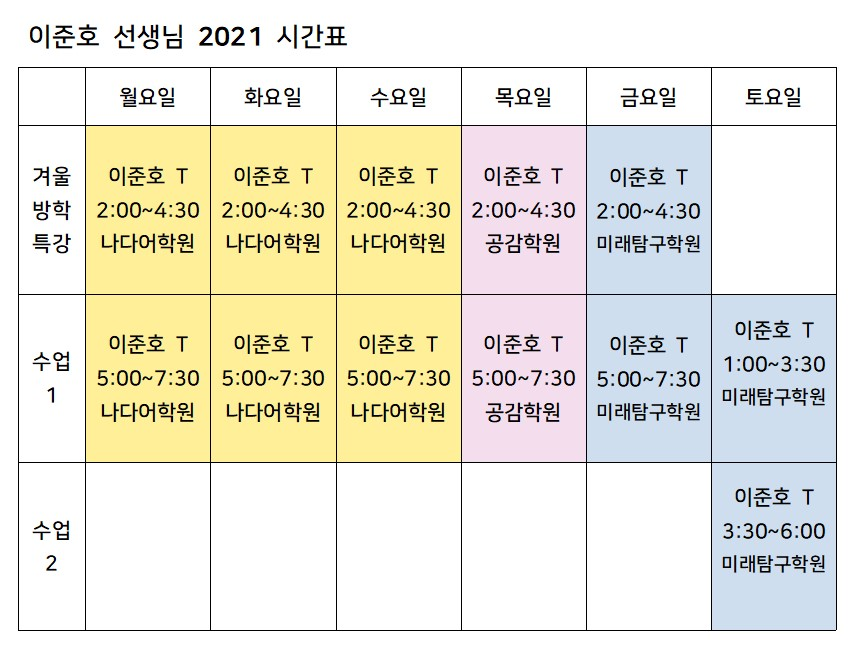
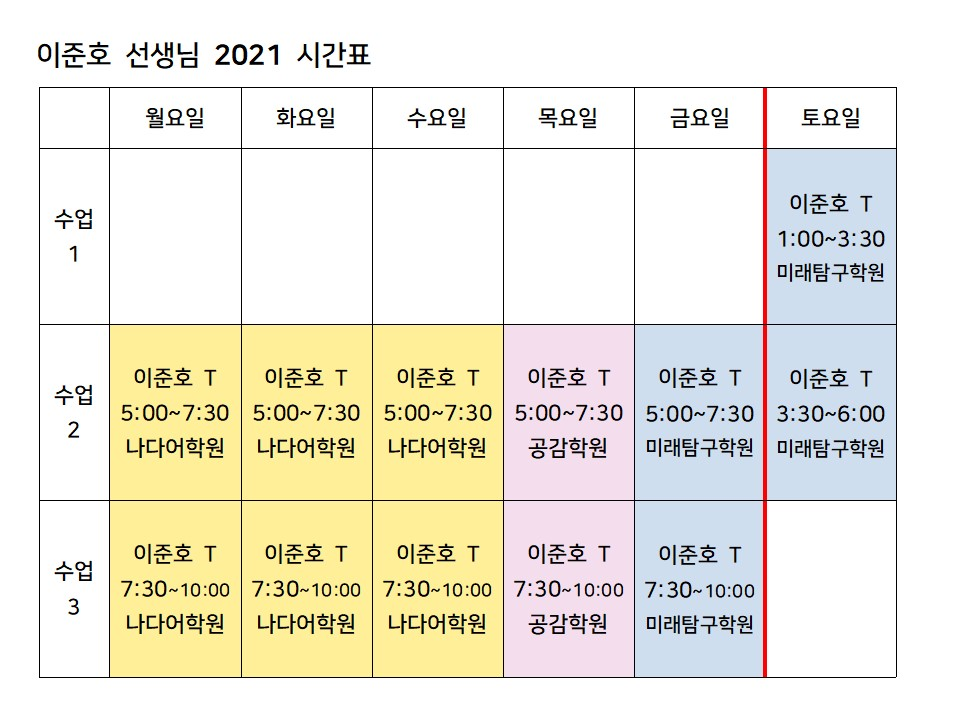
02-25 강의소개 업데이트

diff --git a/intro.html b/intro.html
@@ -43,51 +43,61 @@
 				</div>
 			</section>
 
+			<!-- Main -->
+			<section id="main" class="wrapper">
+				<div class="inner">
+					<div class="content">
+						<header>
+							 <h1><i class="fa fa-tasks" aria-hidden="true"></i>  <b>A.I 슈퍼클리닉</b></h1>
+							 <h3>(Artificial Intelligence)</h3> <br><br>
+						</header>
+						<p><b>인공지능</b> 시스템 마타(mata)를 통해 학생 개인의 취약 개념을 체계적으로 보완하며 스스로 실력을 쌓아가도록 유도하는 <br> 완벽한 개별 맞춤형 실력 향상 수업입니다. </p>
+						<h3><b>수업 소개</b></h3>
+						<p>강의 없이 개별 <b>스케줄링*</b> 작업 후 1회 수업 당 총 4세트의 치료 문제를 풀게 되며, 개인별로 첨삭 및 약점 치료를 진행하는 형태.</p>
+							<ul>
+								<li>수업 횟수: 기본 주 1회 수업/ 주 2회는 선택</li>
+								<li>1회당 수업 시간: 2시간 30분</li>
+								<li>반 구성: 고3 중심 반, 고1,2 중심반</li>
+							</ul>
+						<p><b>스케줄링* 이란</b> <br> 원하는 기간과 목표를 설정하고 이를 달성하기 위해 학생의 실력에 맞춰 인공지능 시스템을 세팅하는 것을 의미합니다. <br>스케줄링은 상담 후 특정 목적에 따라 맞춤형 세팅이 가능하고, 주기적으로 업데이트가 되며 그에 대한 모든 내용은 강사와 학부모가 공유합니다.</p>
+						
+						<hr />
+						<header>
+							<h2><i class="fa fa-book" aria-hidden="true"></i>  <b><자세한 수업 진행 예시></b></h2>
+					   </header>
+					   	<ol>
+							<li><mark>진단 모의고사</mark>를 학생이 풀어봅니다</li>
+							<li>진단모의고사에서 학생이 <mark>맞은 문제와 틀린 문제</mark>를 <b>인공지능</b>이 분석합니다. <br>
+								객관식 문항의 경우 어떤 보기를 골랏는지, 서술형 문항의 경우 어떤 답을 썼는지를 분석하여 학생이 가지고 있는 오개념을 분석합니다.</li>
+							<li>진단모의고사의 결과 데이터가 누적되면 학생이 <mark>틀린 문제들에 공통적으로 포함되어 있었던 개념들을</mark> 인공지능이 분석합니다. 따라서 <mark>데이터가 누적될수록 학생에 대한 분석결과는 더욱 정확하고 정교</mark>해집니다.</li>
+							<li>인공지능이 분석결과를 바탕으로 학생이 가진 취약개념을 바로 잡을 수 있는 문제들, 이른바 치료문제를 선별합니다.</li>
+							<li>인공지능이 선별한 학생 맞춤형 <mark>치료문제를 통해 학생이 가진 오개념들을 바로 잡게</mark> 됩니다.</li>
+						</ol>
+						<hr />
+						<header>
+							<h2><i class="fa fa-info-circle" aria-hidden="true"></i> 학생에 맞게 운영되는 최상의 시스템 <b> 슈퍼클리닉</b></h2>
+					   </header>
+					   <p>1. 적절한 <b>시간 배분</b> 연습</p>
+					   <p>2. 어떤 문제도 학생에게 답해줄 수 있고, 학생과 토론할 준비가 된 <b>선생님</b></p>
+					   <p>3. <b>실시간으로 치료문제를 뽑아서</b> 그날 자신의 약한 부분을 다시 연습할 수 있게 해주는 스케줄링</p>
+					   <p>4. 진행되는 모든 과정을 학부모님과 공유하기 위한 <b>분석보고서</b> 작성 및 송부</p>
 
-			<!-- Highlights -->
-				<section class="wrapper">
-					<div class="inner">
-						<div class="highlights">
-							<section>
-								<div>
-										<img src = "images/SuperClinicLogo.png" width="100%">
-								</div>
-							</section>
-							<section> <!--메인 배경색-->
-								<div class="content">
-									<header>
-										<h2><strong>대치동에서 진행되는<br> 수학 맞춤형 클리닉  </strong></h2>
-									</header>
-									<p>수강 신청 안내 </p>
-									<ol>
-										<li> 카톡 플러스 친구 '슈퍼클리닉' 채널 추가한다.  </li>
-										<li> 게시글에서 수강시간표를 확인한 뒤, 수강하고자 하는 학원과 시간과 반을 선택한다.</li>
-										<li> 채팅하기(1:1)를 눌러 다음의 정보를 채팅창에 입력하면 확인 후 상담 전화를 드립니다! </li>
-									</ol>
-									<p>* 이외 궁금하신 사항은 플러스친구(1:1채팅)에 직접 문의하시면 확인 즉시 순차적으로 답변을 드립니다~ </p>
-								</div>
-							</section>
-						</div>
+					   <hr />
+						<header>
+							<h2><i class="fa fa-question" aria-hidden="true"></i>   <b>Q.A </b> 이런 점이 궁금해요</h2>
+						</header>
+						<p><strong>Q1. 슈퍼클리닉 강의가 따로 있나요? 슈퍼클리닉의 기본적인 수업 방식은 무엇인가요?</strong>  <br><br>
+							강의가 따로 있지는 않습니다. 상담을 통해 개인별 스케줄을 구성하고, 그 진도에 맞추어 문제를 풀고 일대일 피드백을 합니다.</p>
+						<p><strong>Q2. 슈퍼클리닉 수업은 개인별로 문제가 모두 다른가요?</strong>  <br><br>
+							네, 우연히 같은 몇 문제가 있을 수 있지만 학생별로 성향과 실력이 차이 나기 때문에 문제가 모두 다릅니다. 완벽한 개인 맞춤형 문제가 제공됩니다.</p>
+						<p><strong>Q3. 얼마나 오랫동안 들어야 도움이 될까요?</strong>  <br><br>
+							본인의 수학실력에 대한 개념지도를 만들어야 하기 때문에 <b>최소 3회 이상</b> 참석하고 숙제를 해야 합니다. 통계적으로는 6~7회차 수업분량인 시험지 40개(12문항 기준) 정도를 푼 학생들이 등급 상승 효과를 보고 있습니다.</p>
+						<p><strong>Q4. 수능 수학 성적이 많이 변화한 경우가 있나요?</strong>  <br><br>
+							네, 가장 많이 변화한 경우는 5등급에서 시작해 6개월 만에 모의고사 1등급까지 변화한 경우(이과 재수생)가 있습니다. 대부분  꾸준히 학습하면 평균 1~2등급 상승하는 결과를 얻고 있습니다.</p>
+								
 					</div>
-				</section>
-				<header class="special">
-					<i class="icon fa-line-chart"></i><h2>수업 진행 과정</h2>
-				</header>
-			<!-- CTA -->
-				<section id="cta" class="wrapper">
-					<div class="inner">
-						<i class="icon fa-square"></i><h2> <슈퍼클리닉> 프로그램 내신 진행과정  </h2>
-						<h3><b>1단계</b> : 학교별 완벽 점검 프로그램(내신)<br><br>
-							  <b>2단계</b> : 난이도별/단원별, 기출/심화 모의고사진행 및 개인 첨삭<br><br>
-							  <b>3단계</b> : 학생의 1~2단계 시험결과를 반영한 개인 맞춤형 문제지와 선생님의 개인 첨삭</h3>
-					</div>
-					<div class="inner">
-						<i class="icon fa-square"></i><h2> <슈퍼클리닉> 프로그램 수능 진행과정  </h2>
-						<h3><b>1단계</b> : 학교별 완벽 점검 프로그램(내신)<br><br>
-							  <b>2단계</b> : 난이도별/단원별, 기출/심화 모의고사진행 및 개인 첨삭<br><br>
-							  <b>3단계</b> : 학생의 1~2단계 시험결과를 반영한 개인 맞춤형 문제지와 선생님의 개인 첨삭</h3>
-					</div>
-				</section>
+				</div>
+			</section>
 
 			<!-- Footer -->
 				<footer id="footer">

diff --git a/index.html b/index.html
@@ -42,7 +42,7 @@
 					<div class = "line"></div>
 				</div>
 			</section>
-
+			
 
 			<!-- Highlights -->
 				<section class="wrapper">
@@ -77,16 +77,17 @@
 			<!-- CTA -->
 				<section id="cta" class="wrapper">
 					<div class="inner">
-						<i class="icon fa-square"></i><h2> <슈퍼클리닉> <b>내신</b>  프로그램 진행과정  </h2>
-						<h3><b>1단계</b> : 학교별 완벽 점검 프로그램(내신)<br><br>
-							  <b>2단계</b> : 난이도별/단원별, 기출/심화 모의고사 진행 및 개인 첨삭<br><br>
-							  <b>3단계</b> : 학생의 1~2단계 시험결과를 반영한 개인 맞춤형 문제지와 선생님의 <b>개인</b> 첨삭</h3>
+						<i class="icon fa-square"></i><h2> <슈퍼클리닉> <b>내신</b> 대비</h2><br>
+						<h3><b>1단계</b> : 시험범위 확인 후 해당범위 진단시험 진행<br><br>
+							<b>2단계</b> : 학생의 오답문제를 기반으로 치료문제 제공<br><br>
+							<b>3단계</b> : 1~2단계를 반복하며 개인 맞춤형 문제지 제공과 선생님의 <b>개인</b> 첨삭</h3>
 					</div>
 					<div class="inner">
-						<i class="icon fa-square"></i><h2> <슈퍼클리닉> <b>수능</b>  프로그램 진행과정  </h2>
+						<i class="icon fa-square"></i><h2> <슈퍼클리닉> <b>수능</b> 대비</h2><br>
 						<h3><b>1단계</b> : 진단 모의고사로 학생의 강점/ 취약점 파악<br><br>
-							  <b>2단계</b> : 학생의 오답문제를 기반으로 치료문제 제공<br><br>
-							  <b>3단계</b> : 1~2단계를 반복하며 개인 맞춤형 문제지 제공과 선생님의 <b>개인</b> 첨삭</h3>
+							<b>2단계</b> : 난이도별/단원별, 기출/심화 모의고사 진행 및 개인 첨삭<br><br>
+							<b>3단계</b> : 학생의 1~2단계 시험결과를 반영한 개인 맞춤형 문제지와 선생님의 <b>개인</b> 첨삭</h3><br><br><br>
+						<a href="intro.html" target="_blank" class = "button"> 자세히 알아보기 </a>
 					</div>
 				</section>
 

diff --git a/time-table.html b/time-table.html
@@ -43,11 +43,11 @@
 				</div>
 			</section>
 
+			<!-- Highlights -->
 			<header class="special">
 				<i class="icon fa-calendar-check-o"></i><h2>시간표 2021 </h2>
+				<h4>2021.02.25 업데이트 되었습니다.</h4>
 			</header>
-
-			<!-- Highlights -->
 			<!-- CTA -->
 				<section id="cta" class="wrapper">
 					<div class="inner">
@@ -72,7 +72,7 @@
 					<a name = "kwang">
 					<div class="inner">
 						<i class="icon fa-square"></i><h2>황수환 선생님 </h2>
-						<a href="images/2021_KWANG_TIME.png"><img src = "images/2021_KWANG_TIME.png" width = 90%></a>
+						<a href="images/2021_KWANG_TIME.jpg"><img src = "images/2021_KWANG_TIME.jpg" width = 90%></a>
 					</div>
 				</section>
 

diff --git a/location.html b/location.html
@@ -51,9 +51,9 @@
 			<!-- CTA -->
 				<section id="cta" class="wrapper">
 					<div class="inner">
-						<a href="images/map.png"><img src = "images/map.png" width=100%></a>
+						<a href="images/map.jpg"><img src = "images/map.jpg" width=100%></a>
 						<br><br>
-						<h2><strong> 더 자세한 사항은 카카오톡 또는 학원을 통해 문의해 주세요</strong></h2>
+						<h2><strong> 더 자세한 사항은 카카오톡 채널 또는 학원을 통해 문의해 주세요</strong></h2>
 						<div>
 						<ul>
 							<li><a href="tel:02-552-1003">나다어학원 02-552-1003</a></li>

diff --git a/assets/css/main.css b/assets/css/main.css
@@ -115,6 +115,12 @@ html {
   @media screen and (max-width: 480px) {
     html {
       font-size: 11pt; } }
+    
+/* highlight*/
+mark {
+  background-color: yellow;
+  color: black;
+}
 /*본문 디자인 */
 body {
   background-color: #ffffff;
@@ -171,7 +177,7 @@ header.special {
 header.teacher {
 background-color: #D7EEFD;
 border-radius: 1rem;
-width: 90%;
+width: 75%;
 text-align: center;
 margin: 0 auto 2rem auto;
 padding-top: 1.5rem;

diff --git a/teachers.html b/teachers.html
@@ -47,6 +47,10 @@
 				<i class="icon fa-user"></i><h2> 강사진 소개 </h2>
 			</header>
 			<!-- Highlights -->
+			<header class="special">
+				<i class="icon fa-calendar-check-o"></i><h2>시간표 2021 </h2>
+				<h4>2021.02.25 업데이트 되었습니다.</h4>
+			</header>
 				<section class="wrapper">
 					<div class="inner">
 						<div class="highlights">
